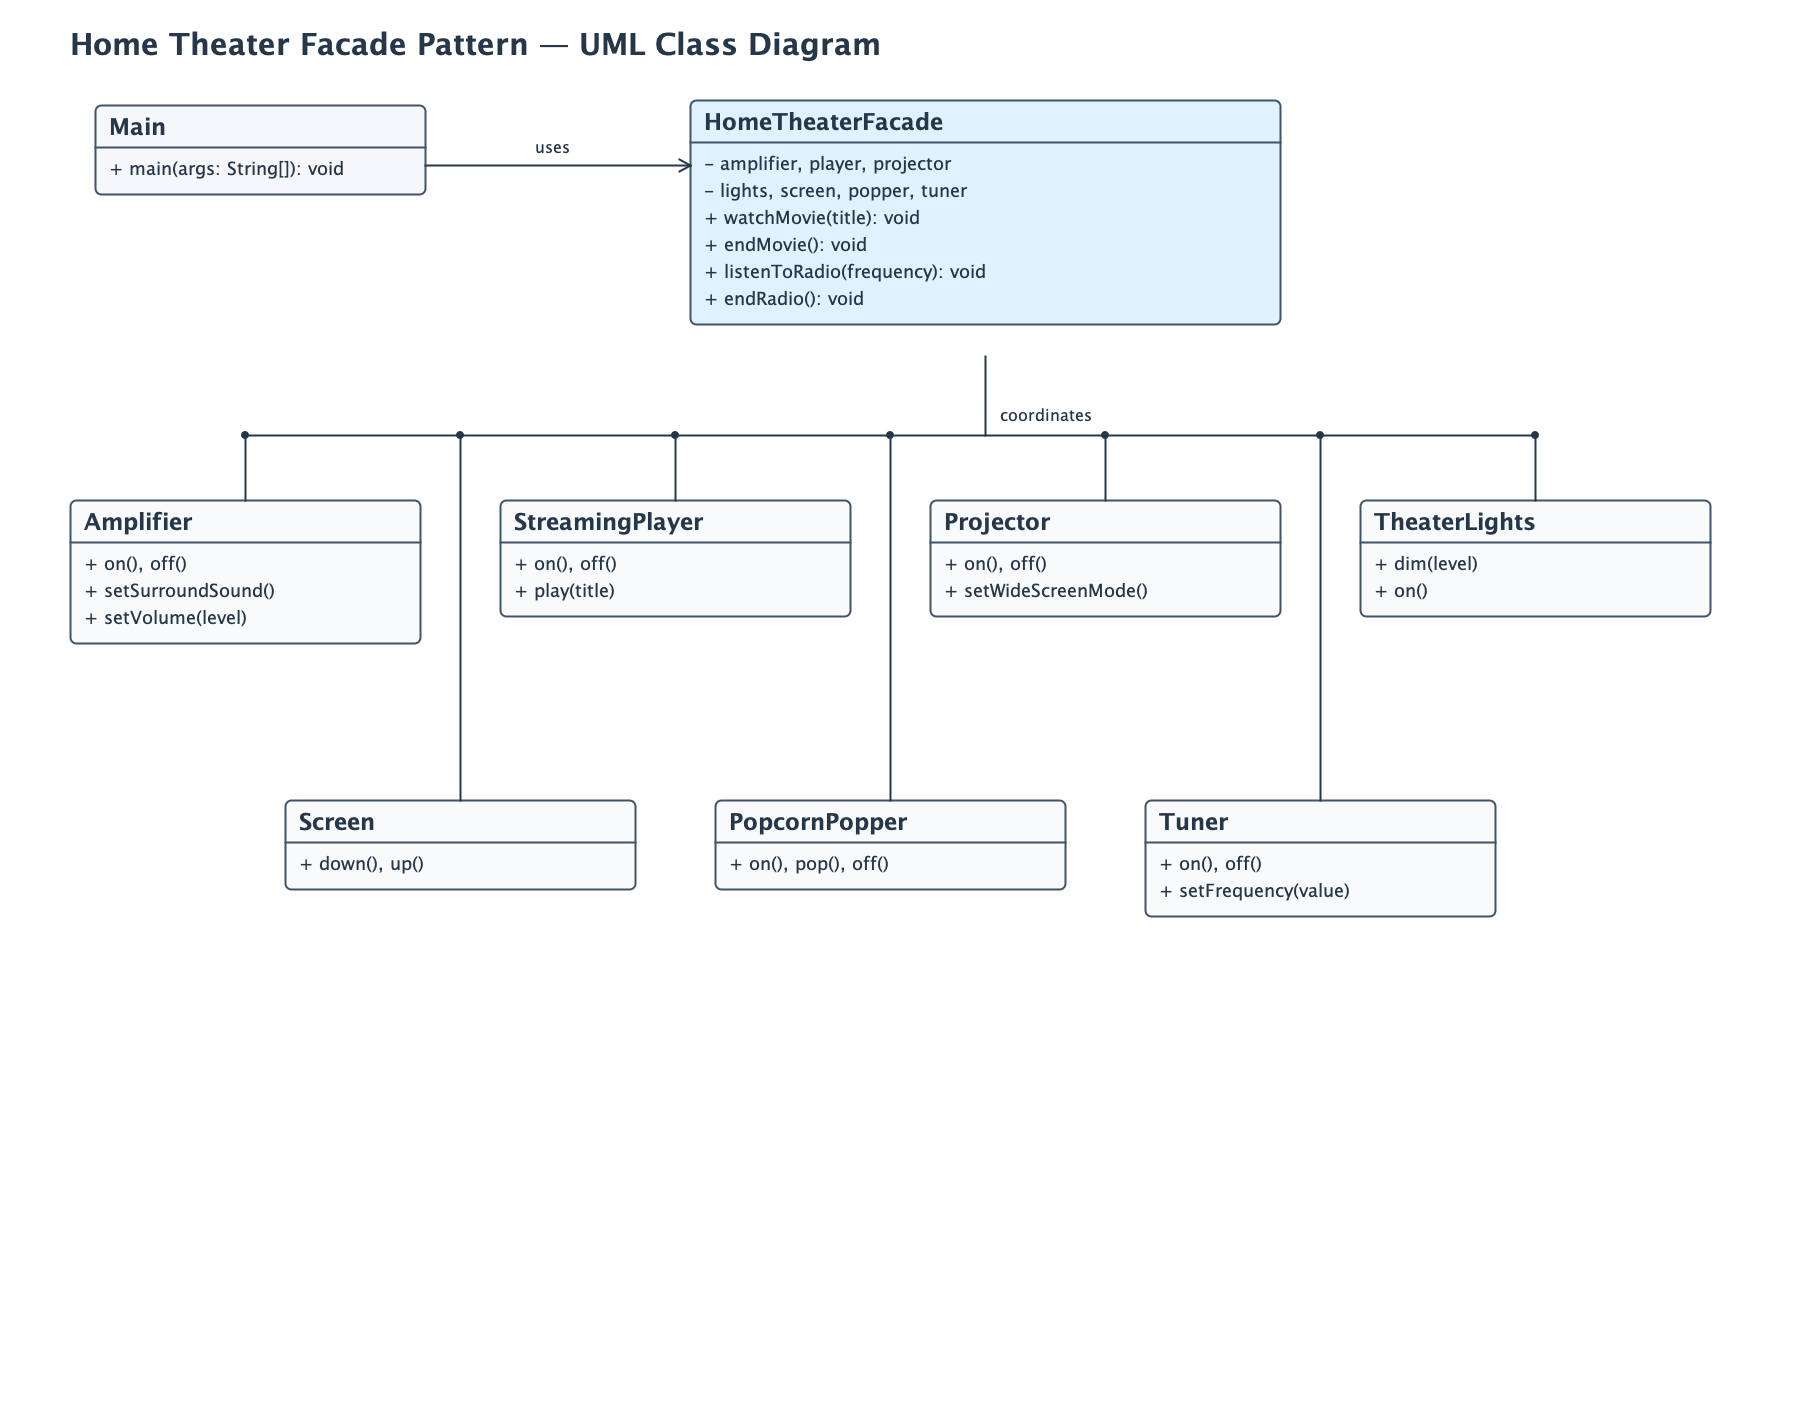
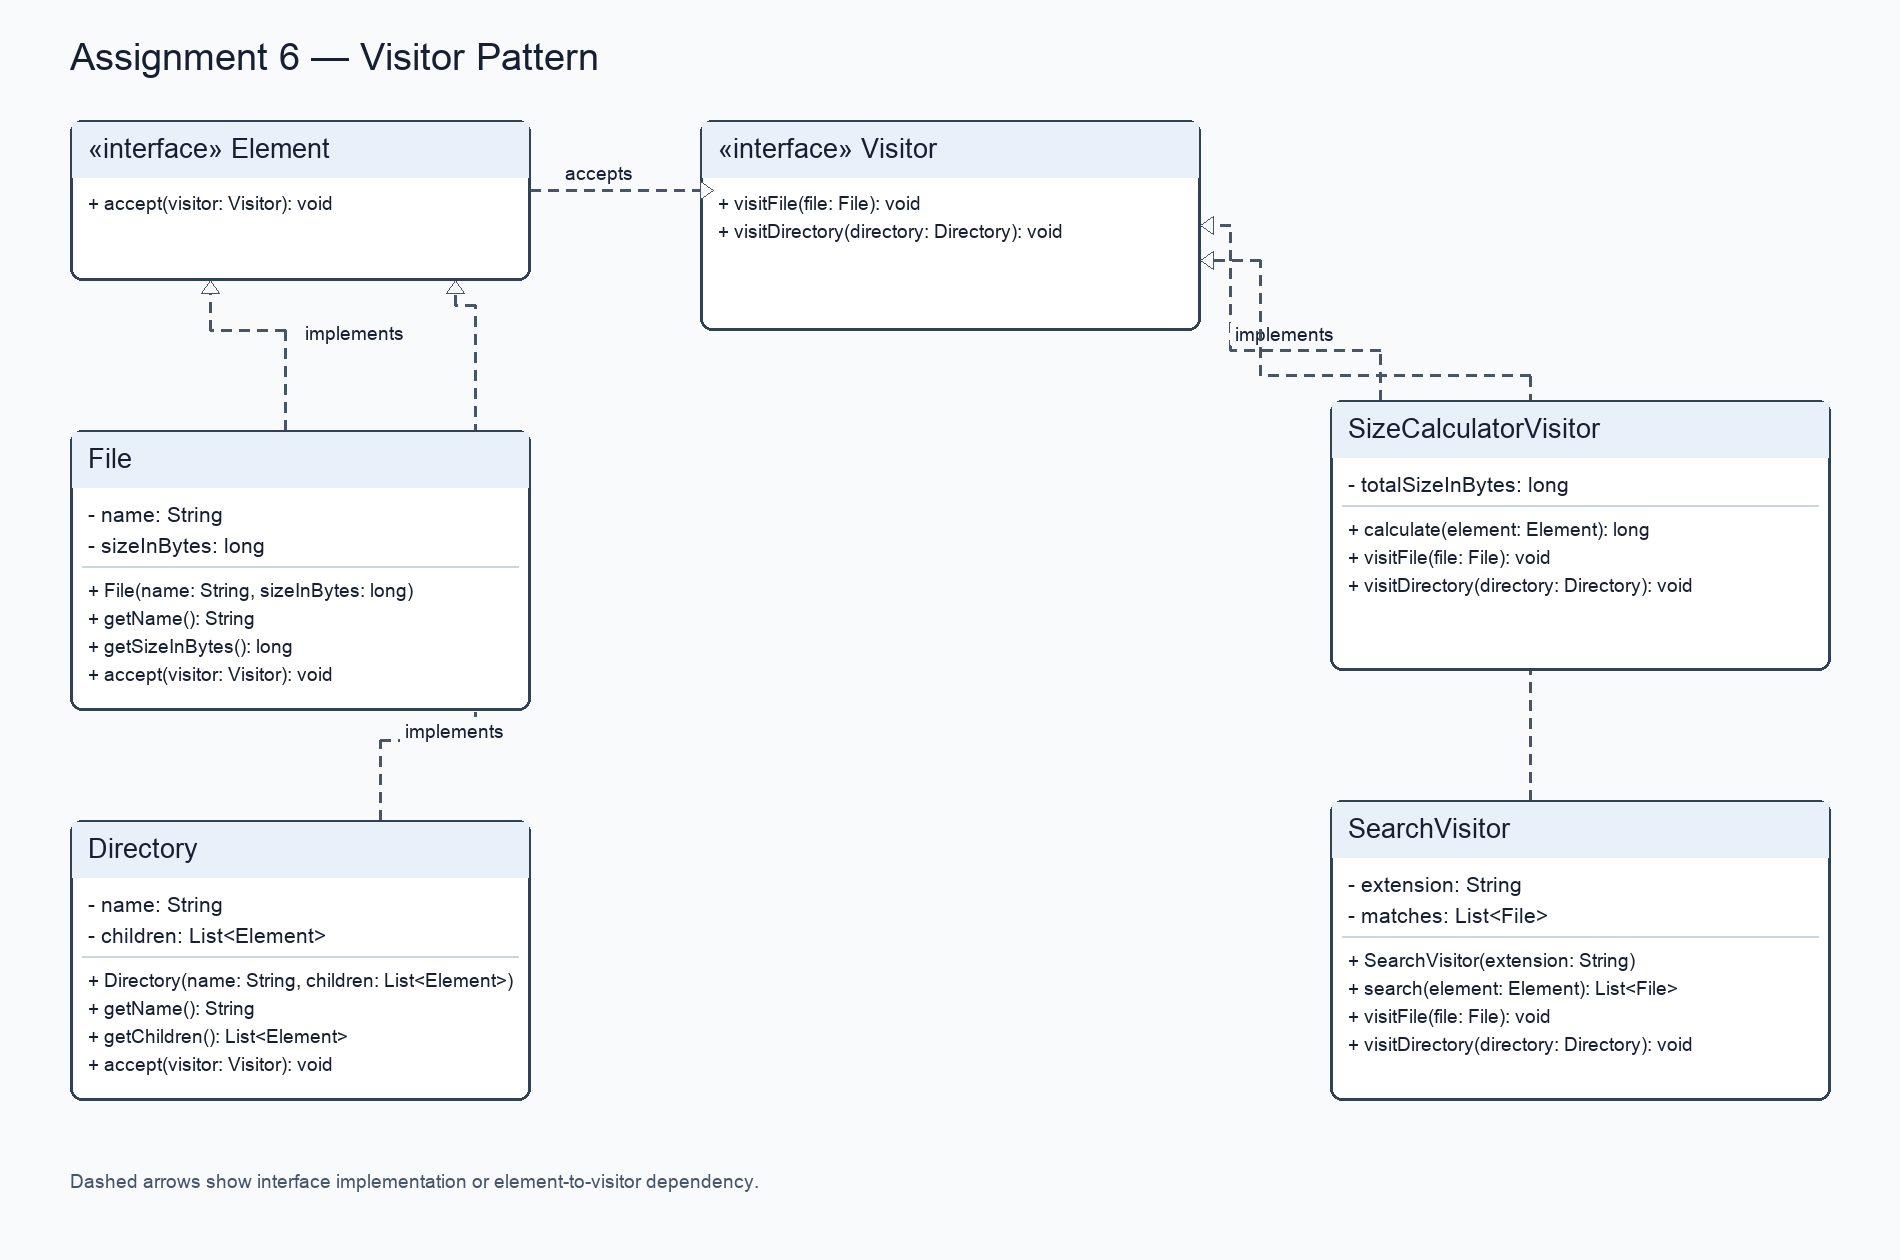
Document Visitor demo and add class diagram

diff --git a/README.md b/README.md
@@ -1,60 +1,47 @@
-# Assignment 4 — Facade Pattern
+# Assignment 6: Visitor Pattern
 
-This Java 17 project demonstrates the Facade Pattern with a home theater. `HomeTheaterFacade` offers a small set of high-level movie and radio operations while coordinating the separate theater devices.
+This Java 17 project models a small file system using `File` and `Directory` elements. It demonstrates the Visitor pattern with two operations: calculating the size of all files in a tree and finding files by extension.
 
-## Facade Pattern Roles
-
-| Role | Project class |
-|---|---|
-| Facade | `HomeTheaterFacade` |
-| Subsystem classes | `Amplifier`, `StreamingPlayer`, `Projector`, `TheaterLights`, `Screen`, `PopcornPopper`, `Tuner` |
-| Client | `Main` |
-
-The client can call `watchMovie(title)` and `endMovie()` without managing device startup and shutdown order. It can also call `listenToRadio(frequency)` and `endRadio()` to run the tuner and amplifier together.
-
-## Project Structure
+## Project structure
 
 ```text
-src/
-├── main/java/hometheater/
-│   ├── HomeTheaterFacade.java
-│   ├── Main.java
-│   └── devices/
-└── test/java/hometheater/
-    └── HomeTheaterFacadeTest.java
+src/main/java/filesystem/
+├── Element.java
+├── File.java
+├── Directory.java
+├── Visitor.java
+├── SizeCalculatorVisitor.java
+├── SearchVisitor.java
+└── Main.java
+README.md
+Assignment6_Report.md
 UML.puml
 UML.png
-Assignment4_Report.md
+run.sh
 ```
 
-## Build and Run
+## Compile and run
 
-Requires JDK 17 or newer. Compile and run the demonstration:
+Install JDK 17 or newer. From the repository root, run:
 
-```bash
+```sh
+./run.sh
+```
+
+The script compiles the sources with the Java 17 language and API target into a temporary directory, runs the demo, and removes the temporary build output. The equivalent manual commands are:
+
+```sh
 mkdir -p out
 javac --release 17 -d out $(find src/main/java -name '*.java')
-java -cp out hometheater.Main
+java -cp out filesystem.Main
 ```
 
-Run the automated tests:
+## Example output
 
-```bash
-./test.sh
+```text
+Total size of 'project': 10256 bytes
+Files matching .txt:
+- notes.txt (512 bytes)
 ```
 
-The test runner compiles production and test sources with `--release 17` and runs the tests without third-party dependencies.
-
-## Clean Code Principles
-
-- **Meaningful names:** device and facade methods describe their theater actions.
-- **Single responsibility:** each device represents and logs its own operations; the facade coordinates workflows.
-- **Encapsulation:** subsystem references are private and callers use the facade's movie and radio operations.
-- **Dependency injection:** the facade receives its devices through its constructor, and devices receive an output consumer.
-- **DRY:** shared output handling is implemented in `TheaterDevice` instead of repeated in every device.
-- **Input validation:** movie titles and radio frequencies are checked before the devices are operated.
-- **Separation of concerns:** the demonstration, orchestration, subsystem actions, and automated tests are kept in separate classes.
-
-## UML
-
-`UML.puml` contains the editable PlantUML class diagram. `UML.png` is its rendered class diagram.
+`UML.puml` is the editable class diagram source; `UML.png` is its rendered image. The report explains the design and its Clean Code choices.
